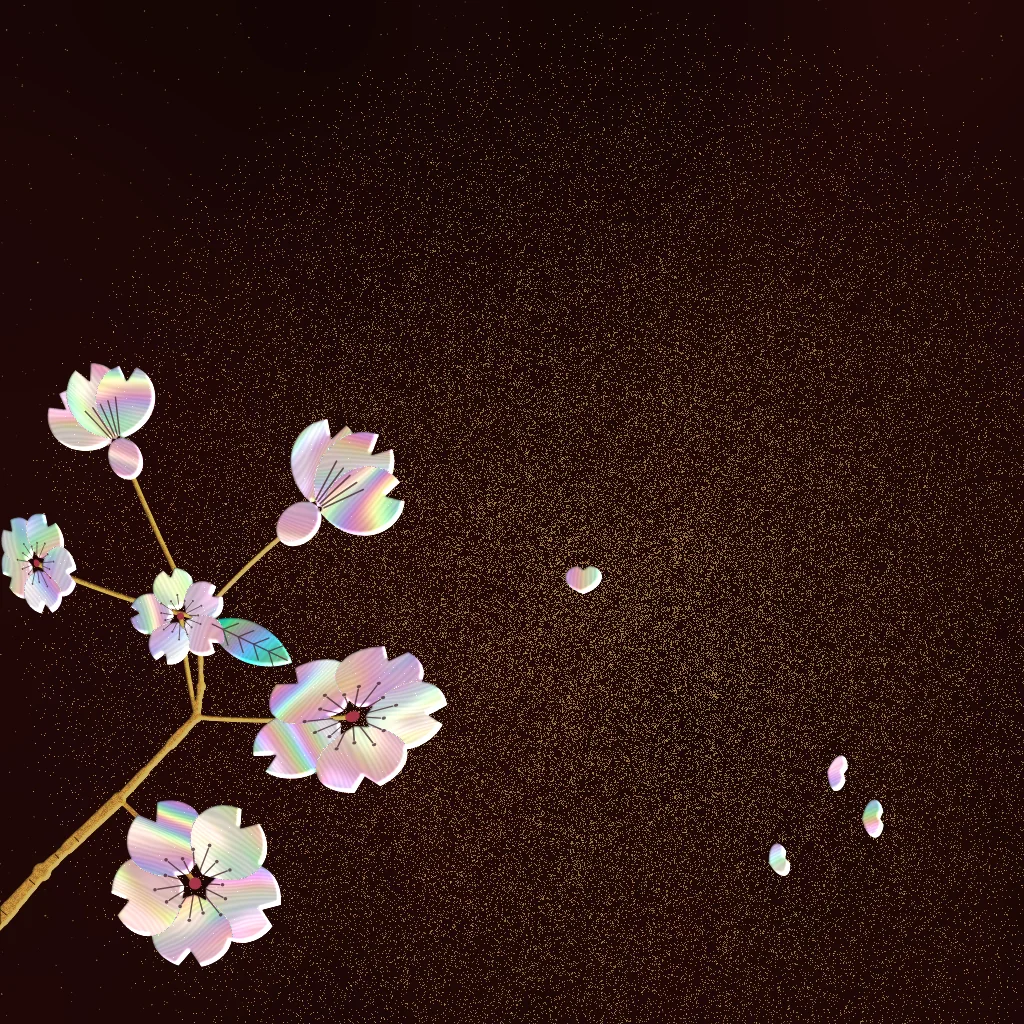
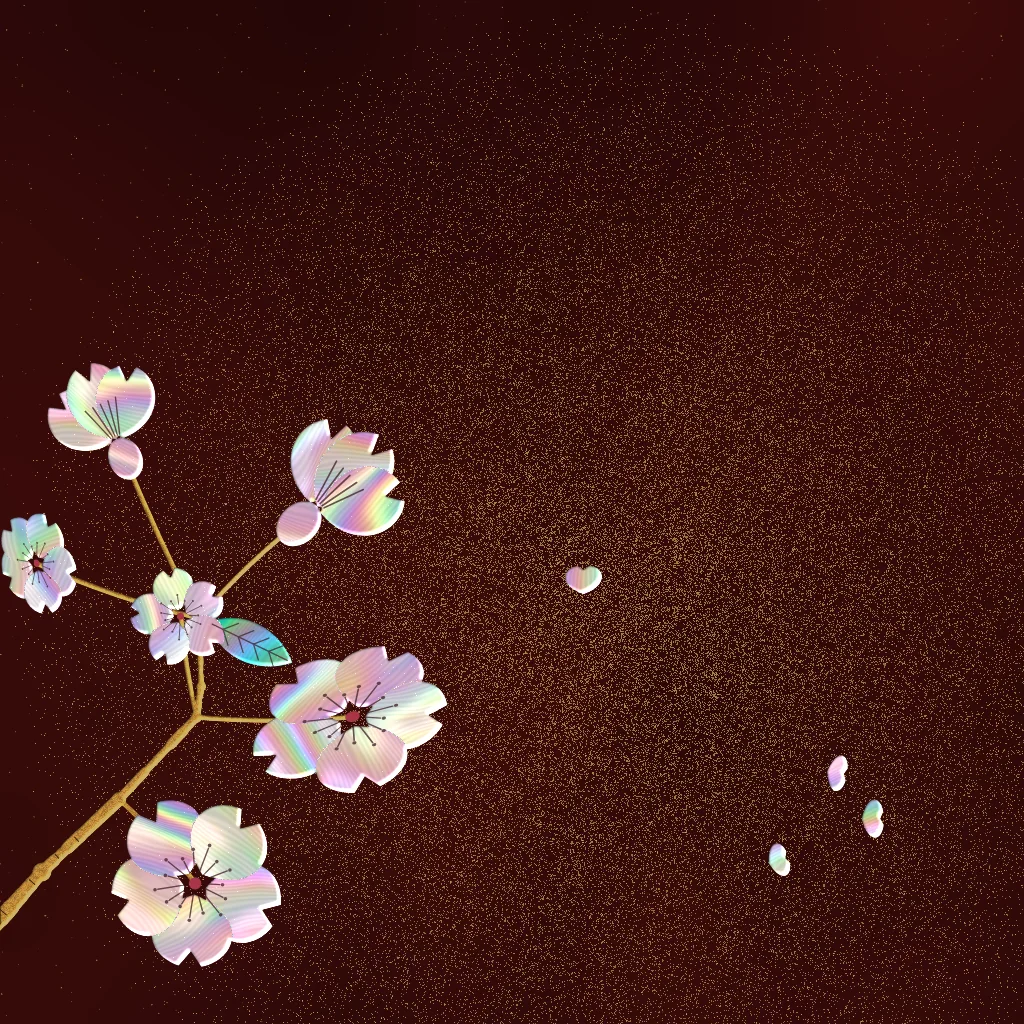
将棋 山桜盤：地色に朱を少し戻す（暗い朱溜）
Claude-Session: https://claude.ai/code/session_01EiWRAXZcgDnoypvsbtaRDZ

diff --git a/atlas/lazy.js b/atlas/lazy.js
@@ -5,7 +5,7 @@
      AtlasLazy.has3D(id) / hasPlay(id) / hasRules(id) — known before loading; AtlasLazy.loaded(id) */
 (function () {
 'use strict';
-const G = {"reversi": ["games/reversi.js?v=53", "rules/reversi.js?v=14"], "shogi": ["models/shogi.js?v=99", "games/shogi-play.js?v=41", "games/shogi.js?v=16", "rules/shogi.js?v=21"], "chess": ["models/chess.js?v=16", "games/chess.js?v=18", "rules/chess.js?v=7"], "backgammon": ["models/backgammon.js?v=121", "games/backgammon.js?v=23", "rules/backgammon.js?v=11"], "gomoku": ["models/goban.js?v=15", "games/gomoku.js?v=15", "rules/gomoku.js?v=9"], "go": ["models/goban.js?v=15", "games/go.js?v=9", "rules/go.js?v=7"], "hex": ["models/goban.js?v=15", "models/hex.js?v=2", "games/hex.js?v=6", "rules/hex.js?v=6"], "tafl": ["games/tafl.js?v=15", "rules/tafl.js?v=7"], "xiangqi": ["models/xiangqi.js?v=4", "games/xiangqi.js?v=14", "rules/xiangqi.js?v=6"], "janggi": ["models/xiangqi.js?v=4", "models/janggi.js?v=3", "games/janggi.js?v=6", "rules/janggi.js?v=2"], "checkers": ["models/checkers.js?v=17", "games/checkers.js?v=8", "rules/checkers.js?v=4"], "ugolki": ["models/checkers.js?v=17", "models/ugolki.js?v=4", "games/ugolki.js?v=11", "rules/ugolki.js?v=8"], "morris": ["models/morris.js?v=7", "games/morris-pieces.js?v=2", "games/morris.js?v=7", "rules/morris.js?v=5"], "connect4": ["models/connect4.js?v=5", "games/connect4-tiles.js?v=1", "games/connect4.js?v=5", "rules/connect4.js?v=3"], "mancala": ["models/mancala.js?v=5", "games/mancala.js?v=10", "rules/mancala.js?v=4"], "dots": ["models/dots.js?v=4", "games/dots.js?v=9", "rules/dots.js?v=3"], "ur": ["models/ur-dice.js?v=2", "models/ur.js?v=5", "games/ur-kit.js?v=15", "games/ur.js?v=11", "rules/ur.js?v=16"], "fanorona": ["models/fanorona.js?v=4", "games/fanorona.js?v=6", "rules/fanorona.js?v=8"], "konane": ["models/konane.js?v=7", "games/konane.js?v=13", "rules/konane.js?v=5"], "amazons": ["models/amazons.js?v=7", "games/amazons.js?v=10", "rules/amazons.js?v=5"], "senet": ["models/ur-dice.js?v=2", "models/senet.js?v=10", "games/senet-kit.js?v=5", "games/senet.js?v=16", "rules/senet.js?v=8"], "agon": ["models/agon.js?v=4", "games/agon.js?v=12", "rules/agon.js?v=5"], "alquerque": ["models/alquerque.js?v=3", "rules/alquerque.js?v=6"], "ludo": ["../ludo/engine.js?v=3", "../ludo/house.js?v=7", "../ludo/board2d.js?v=7", "../ludo/board-art.js?v=3", "models/ludo.js?v=10", "games/ludo.js?v=28", "rules/ludo.js?v=3"], "carrom": ["../carrom/engine.js?v=7", "models/carrom.js?v=18", "games/carrom.js?v=38", "rules/carrom.js?v=8"], "crokinole": ["../carrom/engine.js?v=7", "games/carrom.js?v=38", "../crokinole/engine.js?v=4", "models/crokinole.js?v=13", "games/crokinole.js?v=15", "rules/crokinole.js?v=4"], "hockey": ["../hockey/engine.js?v=15", "models/hockey.js?v=8", "games/hockey.js?v=30", "rules/hockey.js?v=7"], "shanghai": ["games/shanghai-core.js?v=1", "games/shanghai-i18n.js?v=1", "models/shanghai.js?v=6", "games/shanghai.js?v=2"], "peg": ["../peg/engine.js?v=1", "../peg/i18n.js?v=7", "models/peg.js?v=21", "games/peg.js?v=4", "rules/peg.js?v=4"]};
+const G = {"reversi": ["games/reversi.js?v=53", "rules/reversi.js?v=14"], "shogi": ["models/shogi.js?v=100", "games/shogi-play.js?v=41", "games/shogi.js?v=16", "rules/shogi.js?v=21"], "chess": ["models/chess.js?v=16", "games/chess.js?v=18", "rules/chess.js?v=7"], "backgammon": ["models/backgammon.js?v=121", "games/backgammon.js?v=23", "rules/backgammon.js?v=11"], "gomoku": ["models/goban.js?v=15", "games/gomoku.js?v=15", "rules/gomoku.js?v=9"], "go": ["models/goban.js?v=15", "games/go.js?v=9", "rules/go.js?v=7"], "hex": ["models/goban.js?v=15", "models/hex.js?v=2", "games/hex.js?v=6", "rules/hex.js?v=6"], "tafl": ["games/tafl.js?v=15", "rules/tafl.js?v=7"], "xiangqi": ["models/xiangqi.js?v=4", "games/xiangqi.js?v=14", "rules/xiangqi.js?v=6"], "janggi": ["models/xiangqi.js?v=4", "models/janggi.js?v=3", "games/janggi.js?v=6", "rules/janggi.js?v=2"], "checkers": ["models/checkers.js?v=17", "games/checkers.js?v=8", "rules/checkers.js?v=4"], "ugolki": ["models/checkers.js?v=17", "models/ugolki.js?v=4", "games/ugolki.js?v=11", "rules/ugolki.js?v=8"], "morris": ["models/morris.js?v=7", "games/morris-pieces.js?v=2", "games/morris.js?v=7", "rules/morris.js?v=5"], "connect4": ["models/connect4.js?v=5", "games/connect4-tiles.js?v=1", "games/connect4.js?v=5", "rules/connect4.js?v=3"], "mancala": ["models/mancala.js?v=5", "games/mancala.js?v=10", "rules/mancala.js?v=4"], "dots": ["models/dots.js?v=4", "games/dots.js?v=9", "rules/dots.js?v=3"], "ur": ["models/ur-dice.js?v=2", "models/ur.js?v=5", "games/ur-kit.js?v=15", "games/ur.js?v=11", "rules/ur.js?v=16"], "fanorona": ["models/fanorona.js?v=4", "games/fanorona.js?v=6", "rules/fanorona.js?v=8"], "konane": ["models/konane.js?v=7", "games/konane.js?v=13", "rules/konane.js?v=5"], "amazons": ["models/amazons.js?v=7", "games/amazons.js?v=10", "rules/amazons.js?v=5"], "senet": ["models/ur-dice.js?v=2", "models/senet.js?v=10", "games/senet-kit.js?v=5", "games/senet.js?v=16", "rules/senet.js?v=8"], "agon": ["models/agon.js?v=4", "games/agon.js?v=12", "rules/agon.js?v=5"], "alquerque": ["models/alquerque.js?v=3", "rules/alquerque.js?v=6"], "ludo": ["../ludo/engine.js?v=3", "../ludo/house.js?v=7", "../ludo/board2d.js?v=7", "../ludo/board-art.js?v=3", "models/ludo.js?v=10", "games/ludo.js?v=28", "rules/ludo.js?v=3"], "carrom": ["../carrom/engine.js?v=7", "models/carrom.js?v=18", "games/carrom.js?v=38", "rules/carrom.js?v=8"], "crokinole": ["../carrom/engine.js?v=7", "games/carrom.js?v=38", "../crokinole/engine.js?v=4", "models/crokinole.js?v=13", "games/crokinole.js?v=15", "rules/crokinole.js?v=4"], "hockey": ["../hockey/engine.js?v=15", "models/hockey.js?v=8", "games/hockey.js?v=30", "rules/hockey.js?v=7"], "shanghai": ["games/shanghai-core.js?v=1", "games/shanghai-i18n.js?v=1", "models/shanghai.js?v=6", "games/shanghai.js?v=2"], "peg": ["../peg/engine.js?v=1", "../peg/i18n.js?v=7", "models/peg.js?v=21", "games/peg.js?v=4", "rules/peg.js?v=4"]};
 const F = {"reversi": {"t3": true, "play": true, "rules": true}, "shogi": {"t3": true, "play": true, "rules": true}, "chess": {"t3": true, "play": true, "rules": true}, "backgammon": {"t3": true, "play": true, "rules": true}, "gomoku": {"t3": true, "play": true, "rules": true}, "go": {"t3": true, "play": true, "rules": true}, "hex": {"t3": true, "play": true, "rules": true}, "tafl": {"t3": true, "play": true, "rules": true}, "xiangqi": {"t3": true, "play": true, "rules": true}, "janggi": {"t3": true, "play": true, "rules": true}, "checkers": {"t3": true, "play": true, "rules": true}, "ugolki": {"t3": true, "play": true, "rules": true}, "morris": {"t3": true, "play": true, "rules": true}, "connect4": {"t3": true, "play": true, "rules": true}, "mancala": {"t3": true, "play": true, "rules": true}, "dots": {"t3": true, "play": true, "rules": true}, "ur": {"t3": true, "play": true, "rules": true}, "fanorona": {"t3": true, "play": true, "rules": true}, "konane": {"t3": true, "play": true, "rules": true}, "amazons": {"t3": true, "play": true, "rules": true}, "senet": {"t3": true, "play": true, "rules": true}, "agon": {"t3": true, "play": true, "rules": true}, "alquerque": {"t3": true, "play": false, "rules": true}, "ludo": {"t3": true, "play": true, "rules": true}, "carrom": {"t3": true, "play": true, "rules": true}, "crokinole": {"t3": true, "play": true, "rules": true}, "hockey": {"t3": true, "play": true, "rules": true}, "peg": {"t3": true, "play": true, "rules": true}, "shanghai": {"t3": true, "play": true, "rules": false}};
 const done = new Set(), loading = new Map(), ok = new Set();
 function load(src) {

diff --git a/atlas/tools/shogi-tex.html b/atlas/tools/shogi-tex.html
@@ -694,7 +694,7 @@
   function composeRaden(m, W, H, s, ground, base) {   // base: [colour, map] canvases of a 蒔絵 picture under the shell (the 山桜 board)
     const rd = k => ctx(m[k]).getImageData(0, 0, W, H).data, Sh = rd('shell'), Kd = rd('kind'), F = rd('flat'), Ct = rd('cut'), Ey = rd('eye'), Dk = rd('dark');
     const c = cv(W, H), cm = cv(W, H), g = ctx(c), gm = ctx(cm), im = g.createImageData(W, H), mm = gm.createImageData(W, H), d = im.data, e = mm.data;
-    const G0 = ground === 'black' ? [12, 9, 8] : [40, 9, 8], G1 = ground === 'black' ? [6, 5, 5] : [16, 4, 4];   // (red = 溜塗: nearly black, a deep red where the light catches — the shell needs the dark)
+    const G0 = ground === 'black' ? [12, 9, 8] : [66, 12, 11], G1 = ground === 'black' ? [6, 5, 5] : [30, 6, 6];   // (red = 溜塗: nearly black, a deep red where the light catches — the shell needs the dark)
     const Sb = ctx(blurMask(m.shell, 2.6 * W / 3072)).getImageData(0, 0, W, H).data;
     const Bc = base ? ctx(base[0]).getImageData(0, 0, W, H).data : null, Bm = base ? ctx(base[1]).getImageData(0, 0, W, H).data : null;
     for (let y = 0; y < H; y++) for (let x = 0; x < W; x++) {
@@ -770,7 +770,7 @@
     // (2026-11-13, the user: 螺鈿のまま、伝統工芸の作品として「山桜」を) 吉野の山桜: far hills in gold powder under bands of 霞, a bough of
     // mountain cherry in raised gold with shell blossoms and red-gold young leaves, petals of shell on the air, gold dust rising from the foot
     if (kind === 'side' || kind === 'end') {
-      const mk = masks(W, H), red = (x, y) => { const t = fbm(x / W * 2.2, y / H * 1.4, seed, 3), q = .5 + (t - .5) * 1.2; return [mix(16, 40, q), mix(4, 9, q), mix(4, 8, q)]; };
+      const mk = masks(W, H), red = (x, y) => { const t = fbm(x / W * 2.2, y / H * 1.4, seed, 3), q = .5 + (t - .5) * 1.2; return [mix(30, 66, q), mix(6, 12, q), mix(6, 11, q)]; };   /* (2026-11-14, the user: 朱を少し戻す — a dark 朱溜, between the first red and the near-black) */
       // gold dust drifting across the lacquer (梨子地の蒔きぼかし): a soft diagonal cloud, no edges — the only gold besides the bough
       const dust = (x, y, rx, ry, a2, k) => { const g = G(mk, 'pgold'); g.save(); g.translate(x, y); g.rotate(a2); g.scale(1, ry / rx); const gr = g.createRadialGradient(0, 0, 0, 0, 0, rx); gr.addColorStop(0, `rgba(255,255,255,${k})`); gr.addColorStop(1, 'rgba(255,255,255,0)'); g.fillStyle = gr; g.beginPath(); g.arc(0, 0, rx, 0, 7); g.fill(); g.restore(); };
       if (kind === 'side') {
@@ -804,7 +804,7 @@
       }
       return (RD[kind] = composeRaden(m, W, H, seed, 'red', composeMakie(mk, W, H, seed, red)));
     } else {   // the 駒台: one small spray on the dark lacquer, gold dust (the same hand as the faces)
-      const mk = masks(W, H), s3 = sc * 3, red = (x, y) => { const t = fbm(x / W * 2.2, y / H * 1.4, seed, 3), q = .5 + (t - .5) * 1.2; return [mix(16, 40, q), mix(4, 9, q), mix(4, 8, q)]; };
+      const mk = masks(W, H), s3 = sc * 3, red = (x, y) => { const t = fbm(x / W * 2.2, y / H * 1.4, seed, 3), q = .5 + (t - .5) * 1.2; return [mix(30, 66, q), mix(6, 12, q), mix(6, 11, q)]; };   /* (2026-11-14, the user: 朱を少し戻す — a dark 朱溜, between the first red and the near-black) */
       { const g = G(mk, 'pgold'), gr = g.createRadialGradient(W * .6, H * .6, 0, W * .6, H * .6, W * .6); gr.addColorStop(0, 'rgba(255,255,255,.2)'); gr.addColorStop(1, 'rgba(255,255,255,0)'); g.fillStyle = gr; g.fillRect(0, 0, W, H); }
       sakuraBough(mk, m, W * 3, -20, H * .92, -.7, 300, 16, .05, []);
       for (let k = 0; k < 4; k++) rFall(m, R(W * .5, W * .92), R(H * .5, H * .92), R(26, 34) * s3, R(0, 6.3));

diff --git a/atlas/models/shogi.js b/atlas/models/shogi.js
@@ -200,7 +200,7 @@
     sakura: { top: 'top-sakura', side: 'sakura', stand: 'sakura', leg: ['#8a3a26', '#4a1c12'], bottom: 0x2a0806, line: 'rgba(48,20,10,.92)', raden: true },   // (v3: 朱溜 lacquer with 螺鈿 cherry blossoms and a 鶯)
   };
   const SH3 = (() => { try { return new URL('../../images/atlas/shogi3d/', (document.currentScript && document.currentScript.src) || location.href).href; } catch (e) { return '../images/atlas/shogi3d/'; } })();
-  const SH3V = '?v=17';
+  const SH3V = '?v=18';
   const lookOf = o => { const k = (o && o.look) || (X.BOARDS && X.BOARDS.shogi ? X.BOARDS.shogi.get() : 'kaya'); return LOOK[k] ? k : 'kaya'; };
   const imgs = {};
   function withImg(name, fn) {
@@ -246,7 +246,7 @@
     } else if (L.raden) {   // 螺鈿: 朱溜 lacquer, shell pieces (the same maps as 蒔絵)
       const lq = (c, mm) => nacre(M({ map: imgTex(c), roughnessMap: imgTex(mm, false), metalnessMap: imgTex(mm, false), bumpMap: imgTex(mm, false), bumpScale: .002, roughness: 1, metalness: .6, clearcoat: .9, clearcoatRoughness: .06, envMapIntensity: 1.4 }));   // (2026-11-13: the shell brighter — its own colour kept under the shimmer, less of it given to mirroring the room)
       side = lq('side-sakura', 'side-sakura-m'); end = lq('end-sakura', 'end-sakura-m');
-      leg = M({ color: 0x220706, roughness: .16, clearcoat: .9, clearcoatRoughness: .06 });   // (2026-11-13: the dark 溜塗 of the faces)
+      leg = M({ color: 0x3a0b0a, roughness: .16, clearcoat: .9, clearcoatRoughness: .06 });   // (2026-11-13: the dark 溜塗 of the faces)
     } else {
       const fin = L.gloss ? { roughness: .2, clearcoat: .8, clearcoatRoughness: .1 } : L.bark ? { roughness: .26, clearcoat: .65, clearcoatRoughness: .14 } : L.satin ? { roughness: .5 } : { roughness: .42, clearcoat: .3, clearcoatRoughness: .3 };
       side = M(Object.assign({ map: imgTex('side-' + L.side), bumpScale: .002 }, fin));
@@ -279,7 +279,7 @@
     m.color.multiply(new (T().Color)(STAND_TONE).convertSRGBToLinear());
     // 蒔絵 / 螺鈿 (2026-11-12, the user): the picture on the plate's top only — its thin edges, the base and the column plain lacquer
     // (the picture squeezed onto them read as stray thin inlays)
-    if (L.lacq || L.raden) m.userData.plain = M({ color: L.raden ? 0x220706 : 0x120d0a, roughness: .16, clearcoat: .9, clearcoatRoughness: .06 });
+    if (L.lacq || L.raden) m.userData.plain = M({ color: L.raden ? 0x3a0b0a : 0x120d0a, roughness: .16, clearcoat: .9, clearcoatRoughness: .06 });
     return (standMs[look] = m);
   }
   // cr {c0, r0} (詰将棋's close-up, shogi/index.html tzWindow): an n×n window of the 9×9 board — the stars where they fall inside it

diff --git a/shogi/index.html b/shogi/index.html
@@ -6777,7 +6777,7 @@ if (window.Online && Online.available) setInterval(() => { if (dock.on) chatStar
   const f = document.createElement('link'); f.rel = 'stylesheet'; f.href = 'https://fonts.googleapis.com/css2?family=RocknRoll+One&family=Zen+Maru+Gothic:wght@500;700;900&family=Fredoka:wght@600;700&display=swap'; document.head.appendChild(f);
   const load = src => new Promise((res, rej) => { const s = document.createElement('script'); s.src = src; s.onload = res; s.onerror = rej; document.body.appendChild(s); });
   if (window.AtlasLoading) { AtlasLoading.show(); setTimeout(() => AtlasLoading.hide(), 12000); }   // safety net
-  (/[?&]three=128\b/.test(location.search) ? load('https://cdnjs.cloudflare.com/ajax/libs/three.js/r128/three.min.js') : load('../atlas/vendor/three-r186.min.js?v=1').then(() => load('../atlas/vendor/three-compat.js?v=15'))).then(() => load('../atlas/img/tex/baked.js?v=2')).then(() => load('../atlas/table3d.js?v=164')).then(() => load('../atlas/tables3d.js?v=107')).then(() => load('../atlas/skin/common.js?v=105')).then(() => load('../atlas/models/shogi.js?v=99')).then(() => load('../atlas/skin/shogi.js?v=75'))
+  (/[?&]three=128\b/.test(location.search) ? load('https://cdnjs.cloudflare.com/ajax/libs/three.js/r128/three.min.js') : load('../atlas/vendor/three-r186.min.js?v=1').then(() => load('../atlas/vendor/three-compat.js?v=15'))).then(() => load('../atlas/img/tex/baked.js?v=2')).then(() => load('../atlas/table3d.js?v=164')).then(() => load('../atlas/tables3d.js?v=107')).then(() => load('../atlas/skin/common.js?v=105')).then(() => load('../atlas/models/shogi.js?v=100')).then(() => load('../atlas/skin/shogi.js?v=75'))
     .catch(() => { document.documentElement.classList.remove('atlas-skin'); if (window.AtlasLoading) AtlasLoading.hide(); });
 })();
 </script>

diff --git a/atlas/index.html b/atlas/index.html
@@ -2260,7 +2260,7 @@ window.AtlasRgdTimer = function (btn, ms, alive) {
   }, 60);
 };</script>
 <script src="../shared/tapword.js?v=1"></script>
-<script src="lazy.js?v=201"></script>
+<script src="lazy.js?v=202"></script>
 <script src="puzzle-lines.js?v=1"></script>
 <script src="puzzles.js?v=24"></script>
 <script src="lessons3d.js?v=18"></script>
